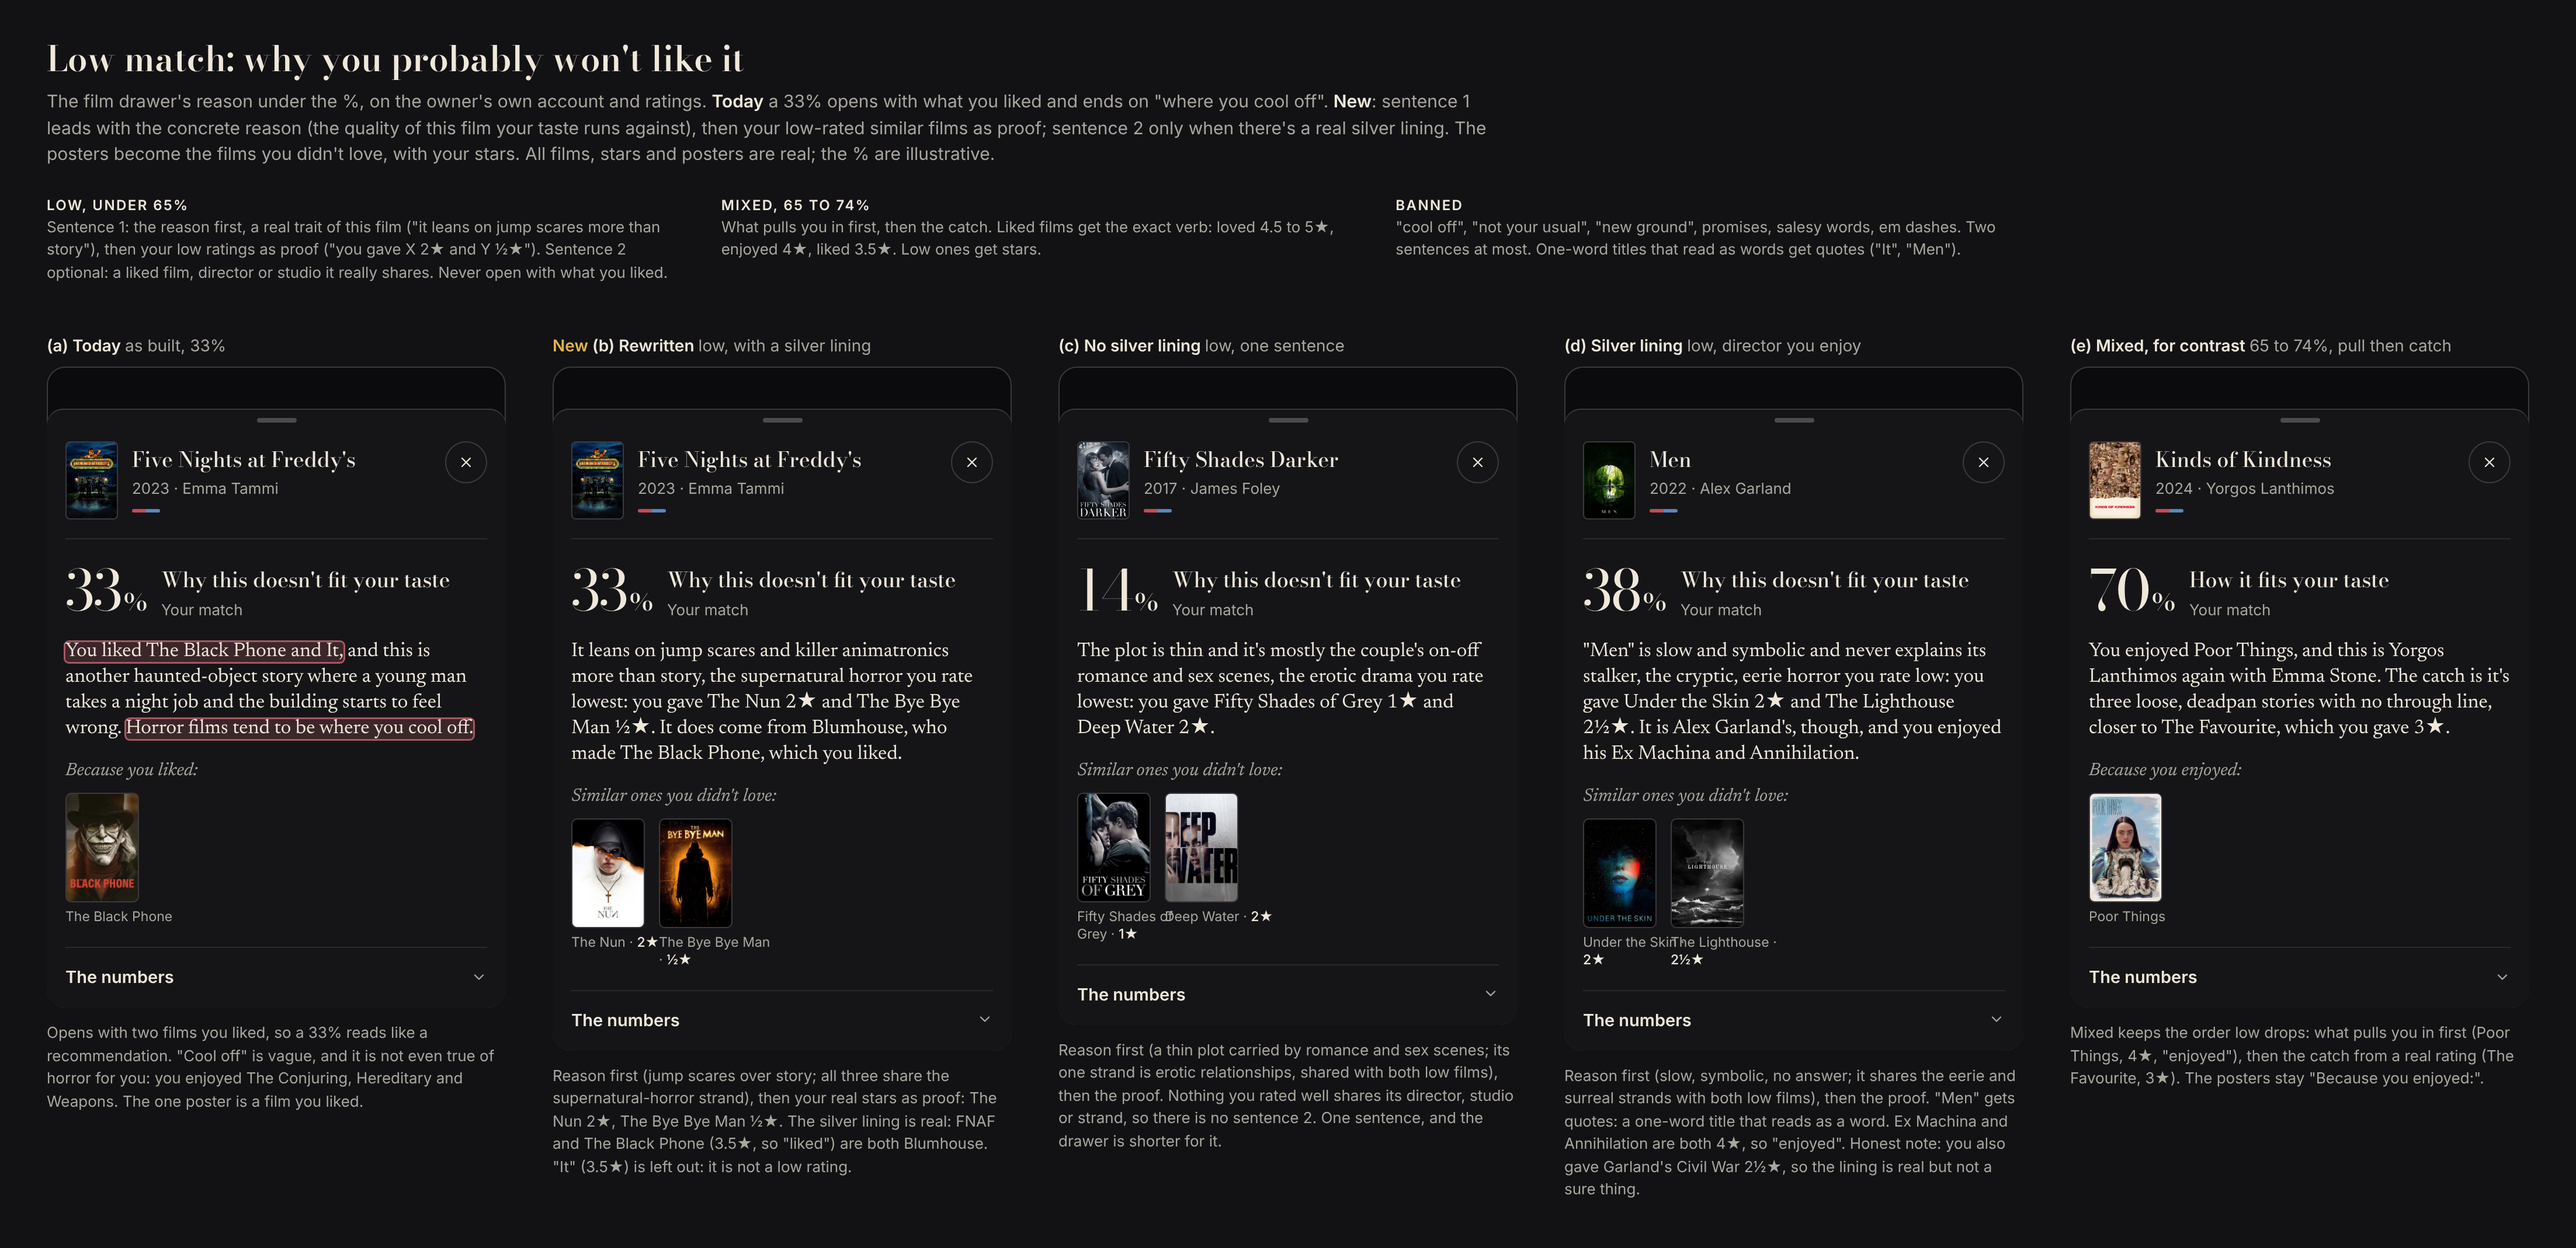
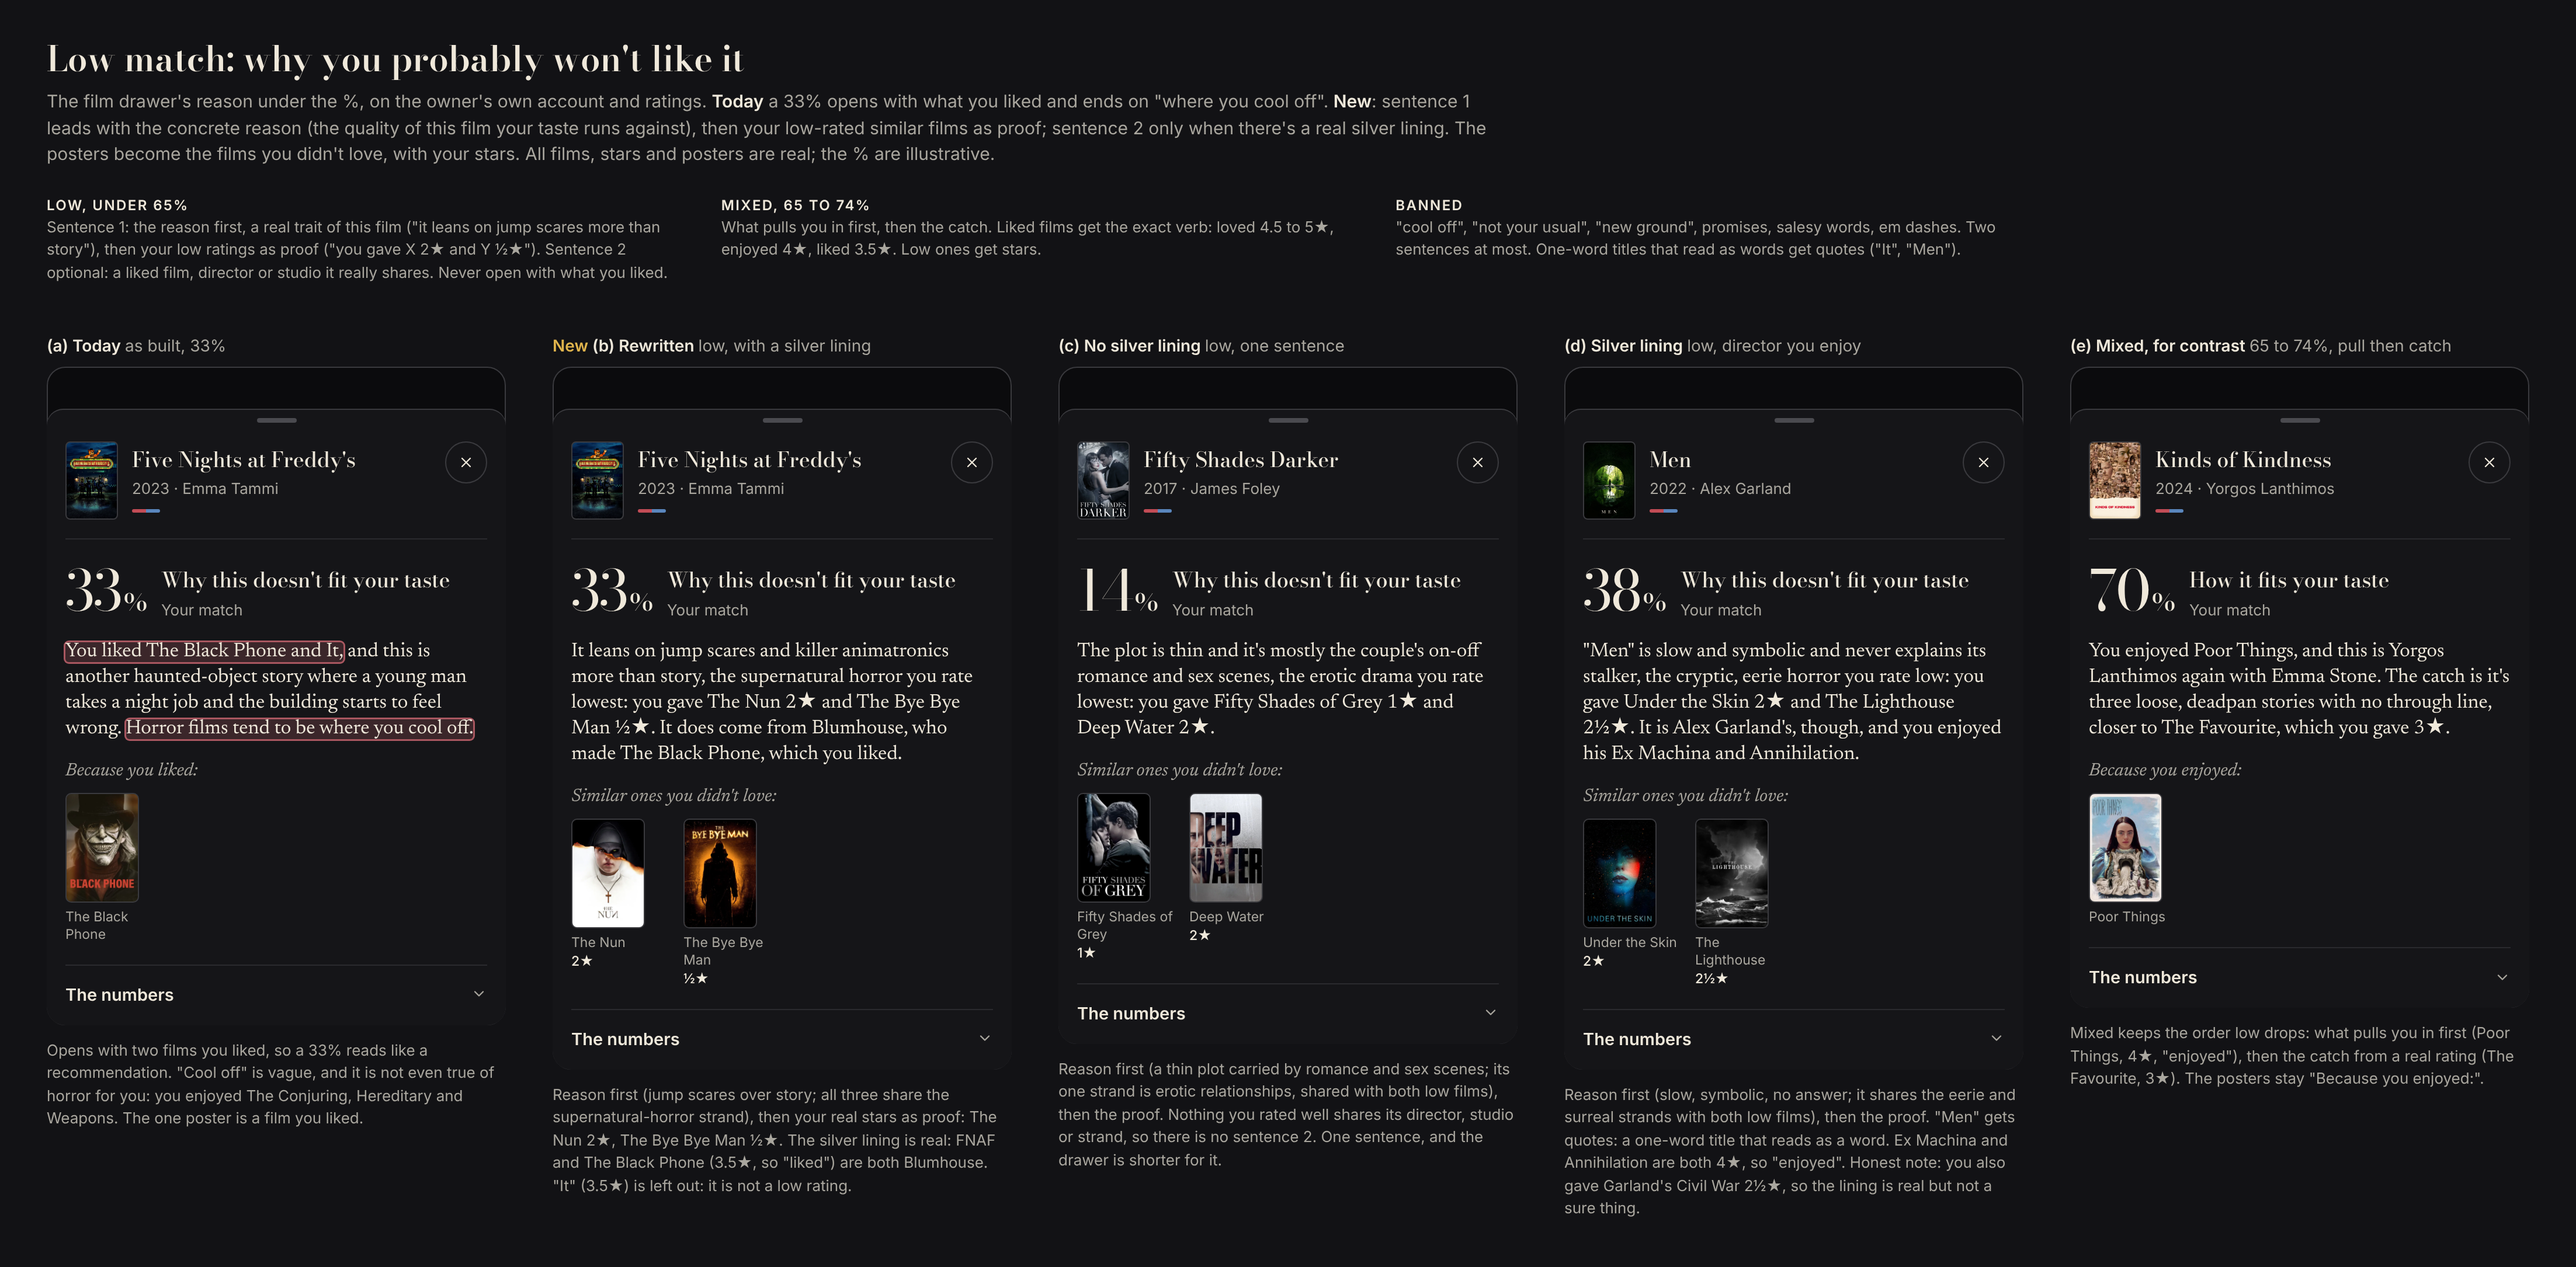
Mock b120 update
Claude-Session: https://claude.ai/code/session_013WRDCFXH8nihP92apJAVW7

diff --git a/mockups/journeys/b120-low-why.html b/mockups/journeys/b120-low-why.html
@@ -30,9 +30,10 @@
 .body i{font-style:normal}
 .pl{font:italic 400 15.5px/1.2 var(--read);color:var(--muted);margin-top:16px}
 .ps{display:flex;gap:12px;margin-top:8px}
-.ps .p{width:63px}
+.ps .p{width:84px}
 .ps .po{width:63px;height:94px;border-radius:5px;border:1px solid var(--line2);background:#222 center/cover no-repeat}
-.ps .pt{font:400 11.5px/1.3 var(--ui);color:var(--muted);margin-top:5px;width:96px}
+.ps .pt{font:400 11.5px/1.3 var(--ui);color:var(--muted);margin-top:5px;width:84px}
+.ps .pt b{display:block;margin-top:1px}
 .ps .pt b{color:var(--ink);font-weight:500}
 .num{display:flex;justify-content:space-between;align-items:center;margin-top:18px;padding-top:16px;border-top:1px solid var(--line);font:600 14.5px var(--ui);color:var(--ink)}
 .num svg{width:14px;height:14px;stroke:var(--muted);stroke-width:2;fill:none;stroke-linecap:round;stroke-linejoin:round}
@@ -88,7 +89,7 @@ document.getElementById('row').innerHTML=frames.map(f=>`<div class="col">
   <div class="mt"><div class="big">${f.pct}<small>%</small></div><div><div class="h">${f.h}</div><div class="s">Your match</div></div></div>
   <div class="body">${f.body}</div>
   <div class="pl">${f.label}</div>
-  <div class="ps">${f.ps.map(p=>`<div class="p"><div class="po" style="background-image:url('${P+p.p}')"></div><div class="pt">${p.t}${p.s?` · <b>${p.s}</b>`:''}</div></div>`).join('')}</div>
+  <div class="ps">${f.ps.map(p=>`<div class="p"><div class="po" style="background-image:url('${P+p.p}')"></div><div class="pt">${p.t}${p.s?`<b>${p.s}</b>`:''}</div></div>`).join('')}</div>
   <div class="num">The numbers ${chev}</div>
  </div></div>
  <div class="under">${f.why}</div></div>`).join('');
